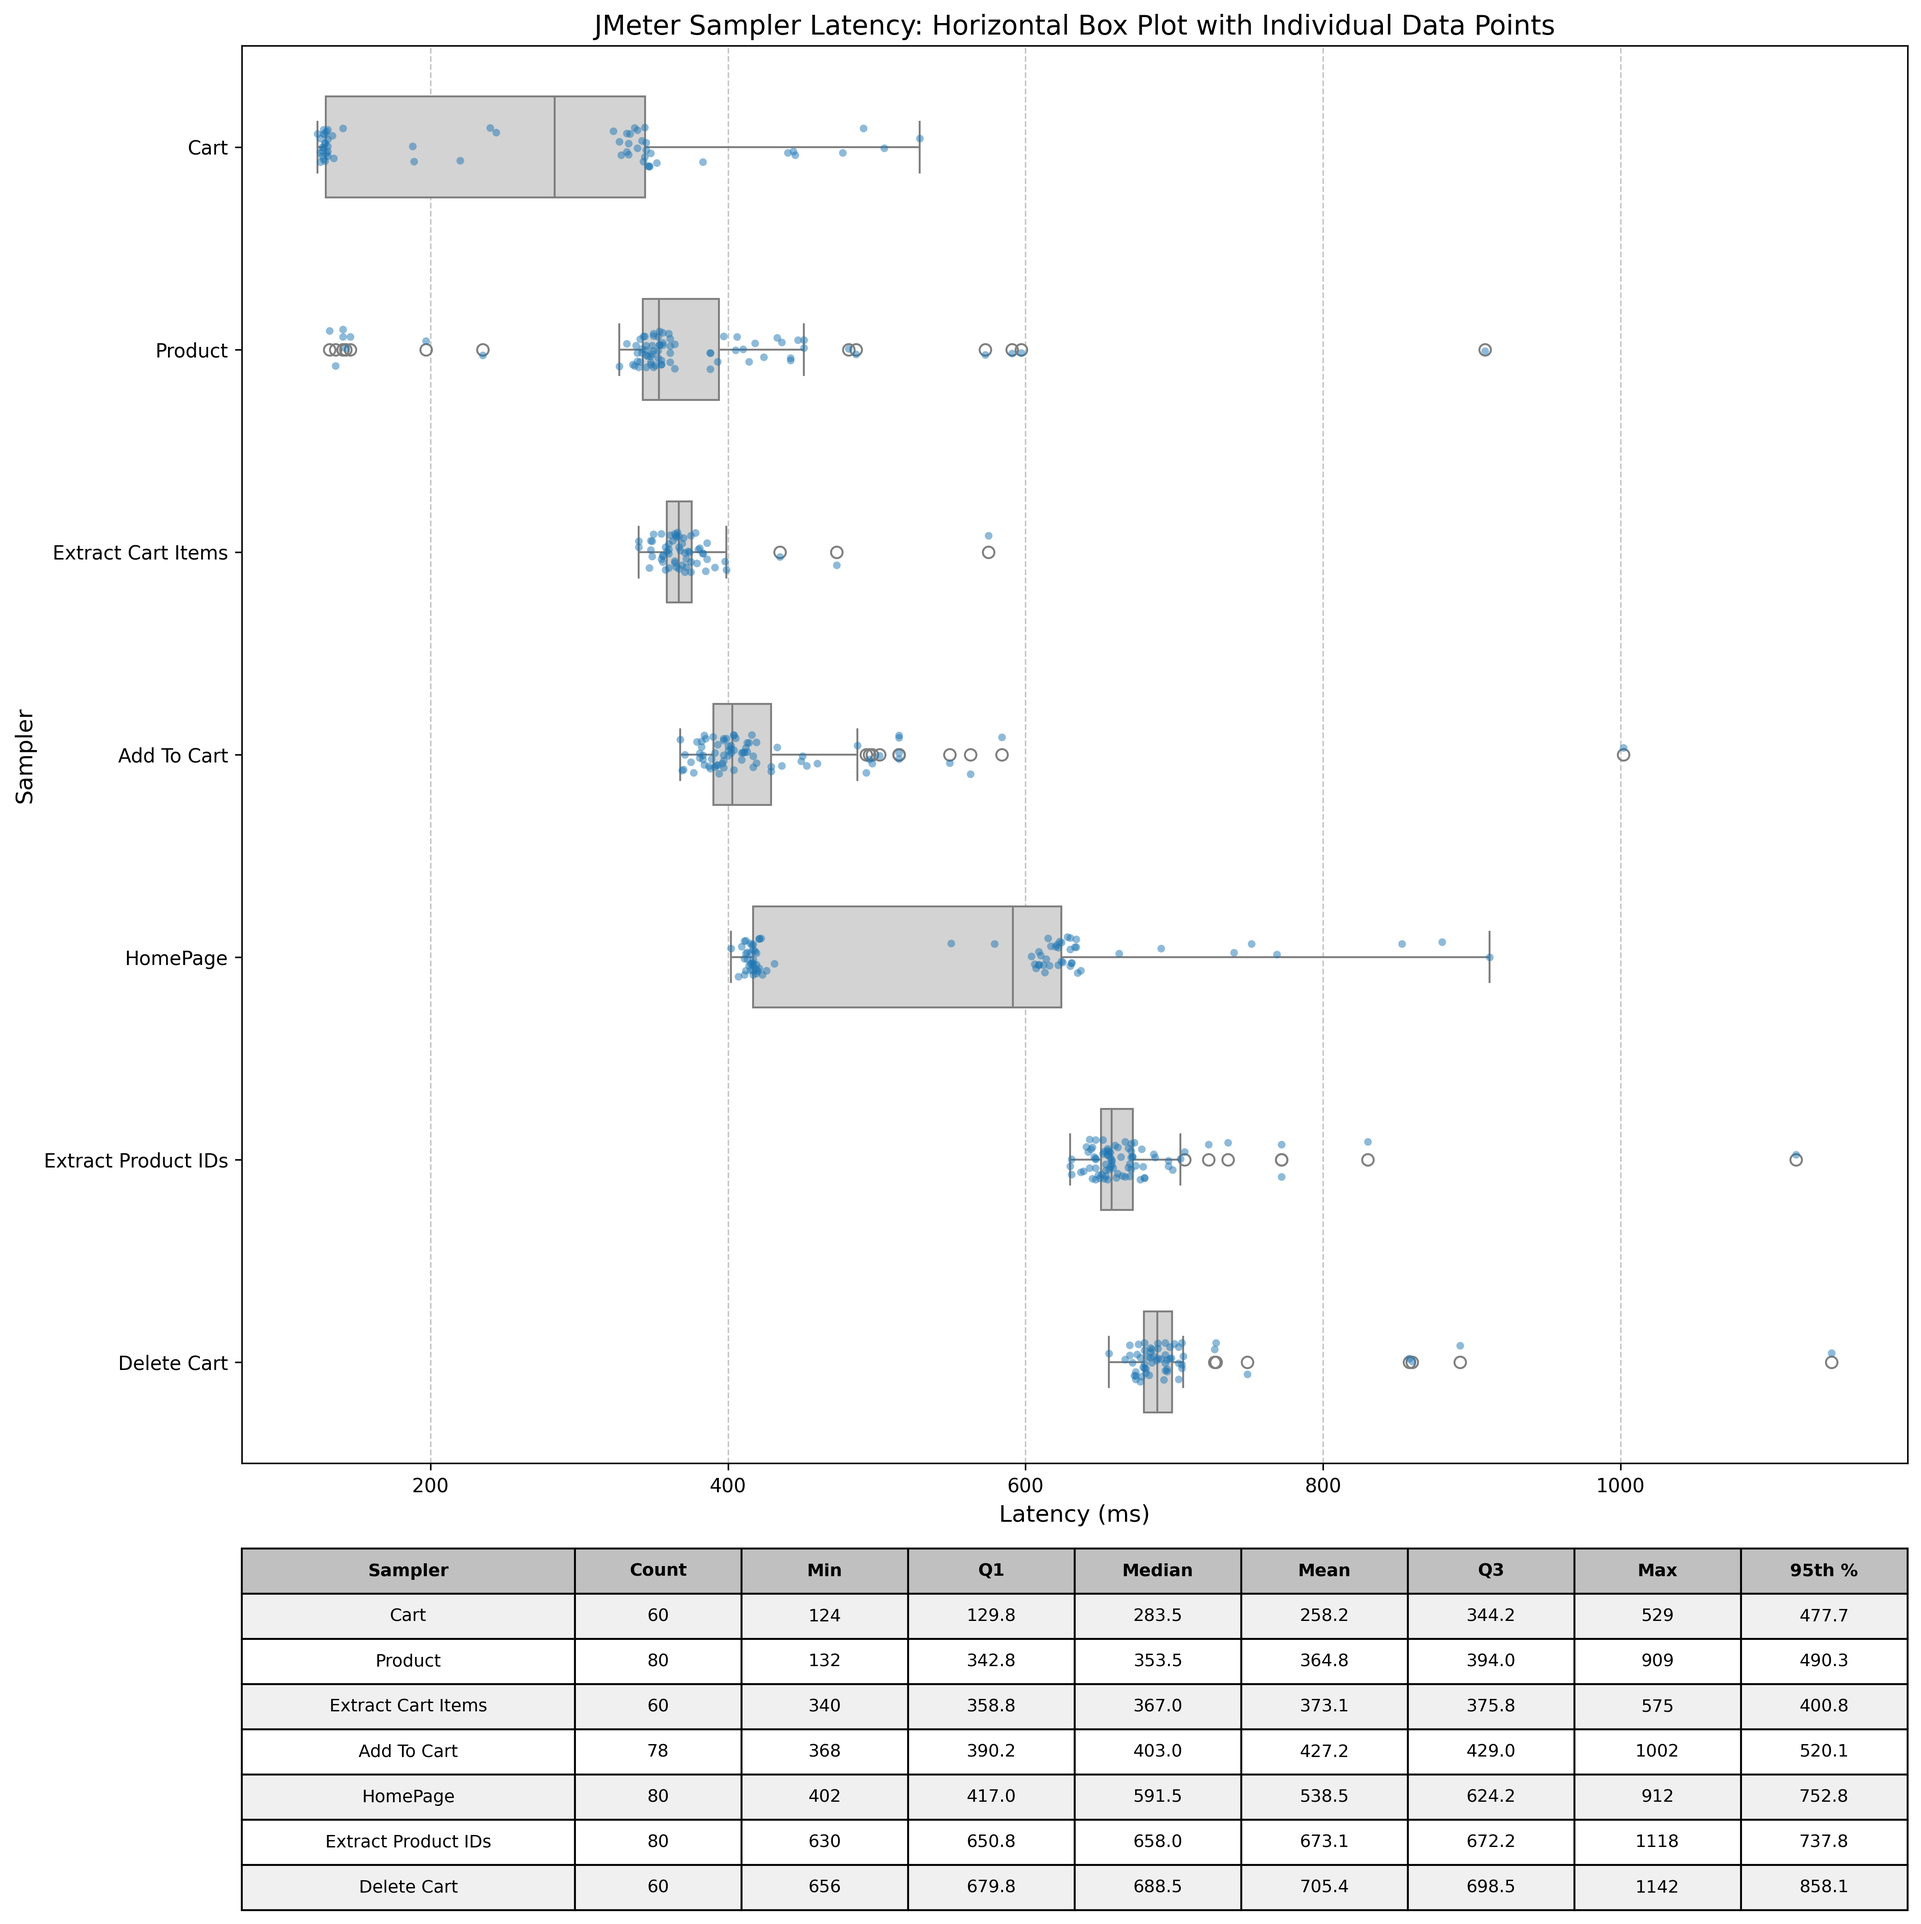
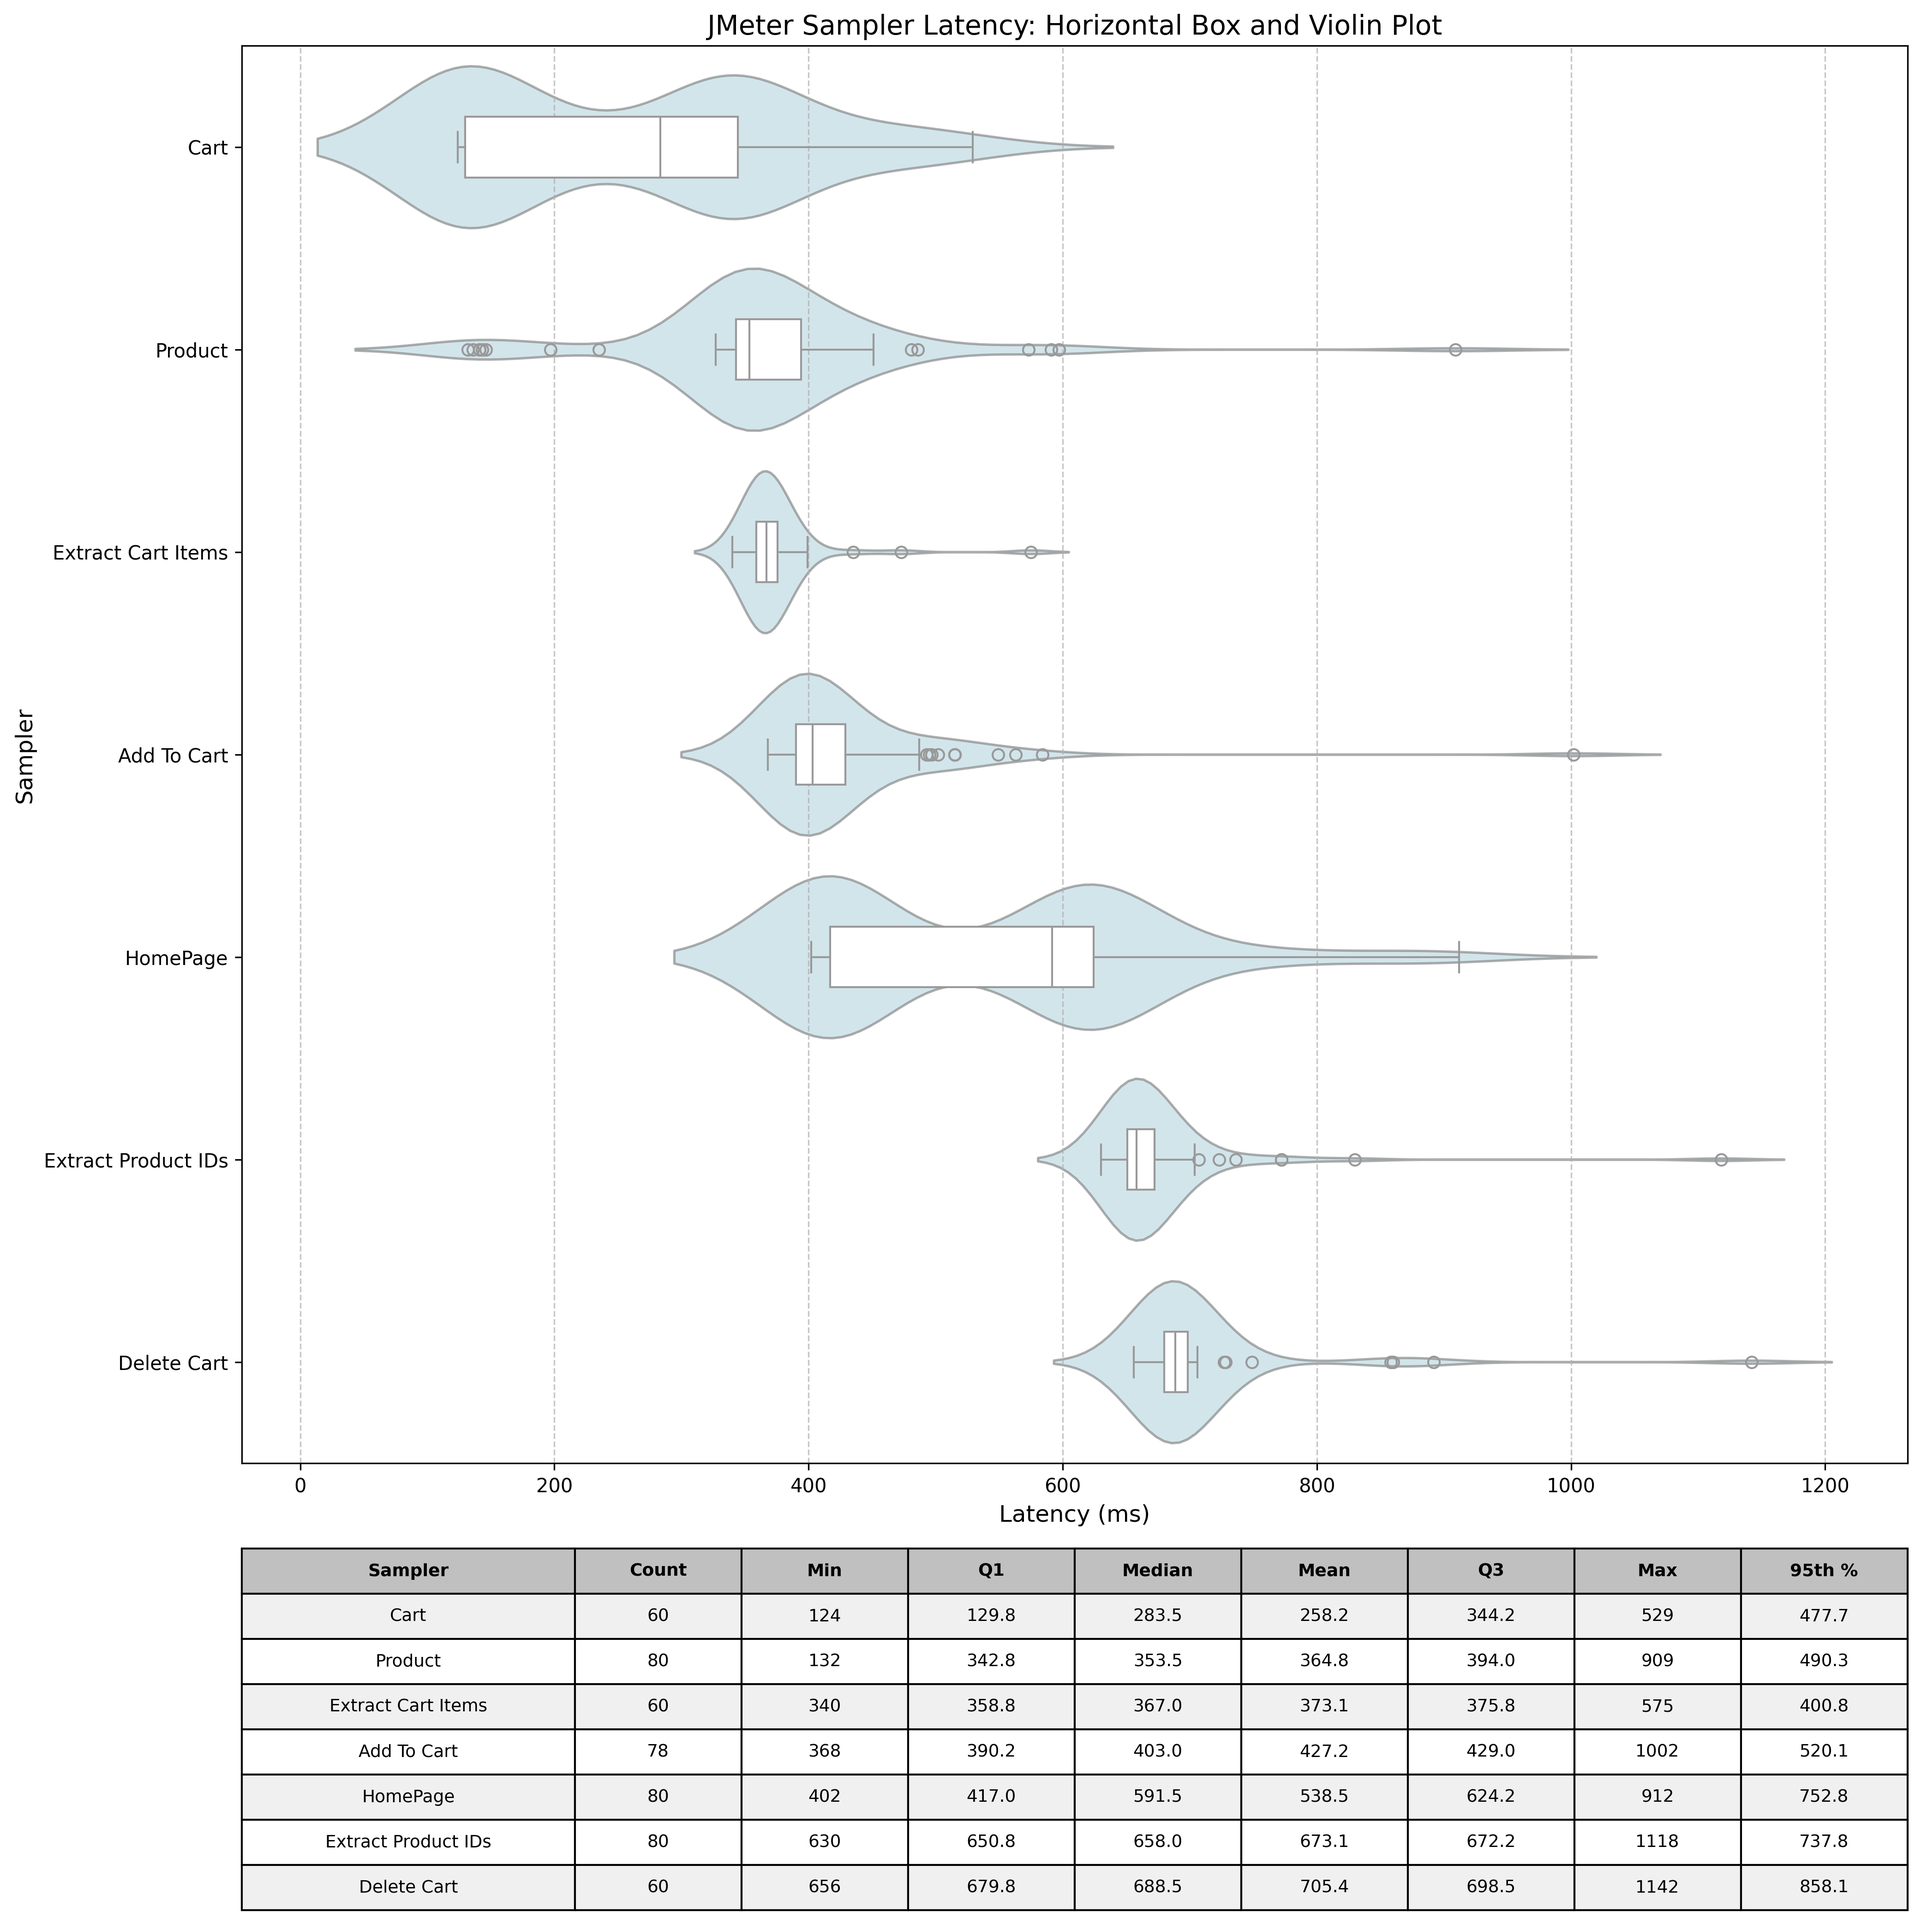
make it a violin plot instead

diff --git a/main.py b/main.py
@@ -3,9 +3,10 @@ import matplotlib.pyplot as plt
 import seaborn as sns
 from matplotlib.gridspec import GridSpec
 
-def create_box_dot_plot(csv_file, output_file=None, width=14, height=14):
+
+def create_box_violin_plot(csv_file, output_file=None, width=14, height=14):
     """
-    Creates a combined horizontal box and dot plot for JMeter sampler latencies with summary statistics.
+    Creates a combined horizontal box and violin plot for JMeter sampler latencies with summary statistics.
     Table remains at the bottom with increased overall height.
 
     Parameters:
@@ -26,6 +27,11 @@ def create_box_dot_plot(csv_file, output_file=None, width=14, height=14):
     df_stats : pandas DataFrame
         Summary statistics for each sampler
     """
+    import pandas as pd
+    import matplotlib.pyplot as plt
+    from matplotlib.gridspec import GridSpec
+    import seaborn as sns
+
     # Read the JMeter CSV file
     df = pd.read_csv(csv_file, sep=',')
 
@@ -68,18 +74,19 @@ def create_box_dot_plot(csv_file, output_file=None, width=14, height=14):
     fig = plt.figure(figsize=(width, height))
     gs = GridSpec(2, 1, height_ratios=[4, 1], figure=fig)  # Increased ratio for plot area
 
-    # Plot area for horizontal box-dot plot
+    # Plot area for horizontal box-violin plot
     ax_plot = fig.add_subplot(gs[0])
 
-    # Create a combined horizontal box and strip plot
-    sns.boxplot(y='label_sorted', x='Latency', data=df, ax=ax_plot,
-                color='lightgray', width=0.5, orient='h')
+    # Create a violin plot first (it will be in the background)
+    sns.violinplot(y='label_sorted', x='Latency', data=df, ax=ax_plot,
+                   scale='width', inner=None, color='lightblue', alpha=0.6, orient='h')
 
-    sns.stripplot(y='label_sorted', x='Latency', data=df, ax=ax_plot,
-                  jitter=True, alpha=0.5, size=4, orient='h')
+    # Overlay a boxplot (it will be in the foreground)
+    sns.boxplot(y='label_sorted', x='Latency', data=df, ax=ax_plot,
+                color='white', width=0.3, boxprops={'zorder': 2}, orient='h')
 
     # Customize the plot
-    ax_plot.set_title('JMeter Sampler Latency: Horizontal Box Plot with Individual Data Points', fontsize=14)
+    ax_plot.set_title('JMeter Sampler Latency: Horizontal Box and Violin Plot', fontsize=14)
     ax_plot.set_ylabel('Sampler', fontsize=12)
     ax_plot.set_xlabel('Latency (ms)', fontsize=12)
     ax_plot.grid(axis='x', linestyle='--', alpha=0.7)
@@ -247,7 +254,7 @@ if __name__ == "__main__":
     jmeter_file = 'output.csv'  # Change to your file path
 
     # Create the box-dot plot and save it
-    box_fig, box_ax, box_stats_df = create_box_dot_plot(jmeter_file, 'jmeter_latency_box_dot.png')
+    box_fig, box_ax, box_stats_df = create_box_violin_plot(jmeter_file, 'jmeter_latency_box_dot.png')
     plt.close(box_fig)  # Close the figure to avoid displaying it immediately
 
     # Create the scatter plot and save it
